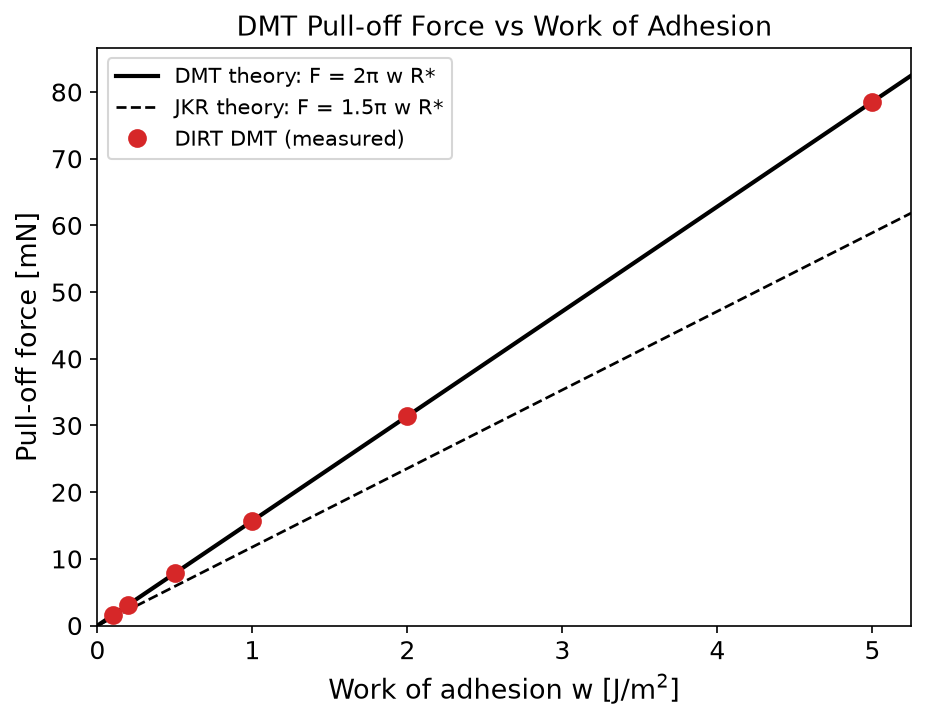
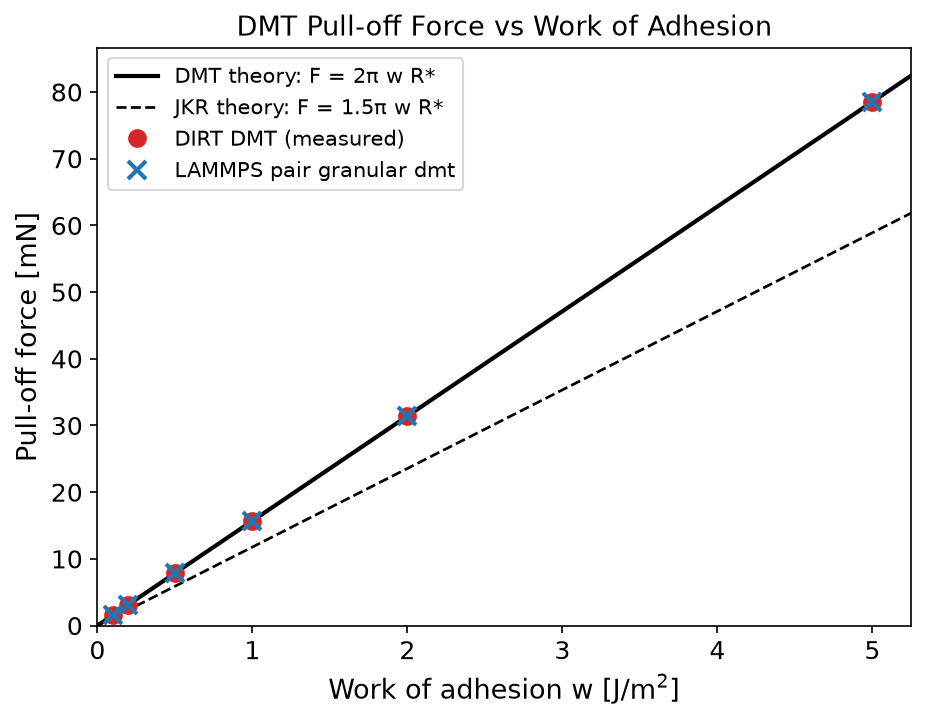
bench_dmt_sjkr_cohesion: cross-validate DMT pull-off against LAMMPS
The DMT arm now runs an independent-code check against LAMMPS `pair granular
... dmt`, whose documented normal force is
    F_ne,dmt = (4/3)E R^1/2 delta^3/2 - 4*pi*gamma*R,  F_pulloff = 4*pi*gamma*R
which is exactly DIRT's DMT law under the standard work-of-adhesion identity
w = 2*gamma (so 4*pi*gamma*R == 2*pi*w*R* with gamma = w/2, R = R* = R/2).

sweep.py: if a LAMMPS binary is on PATH, `start` drives two equal spheres
through contact under displacement control (fix move, restitution 1 / zero
normal damping) for each DMT w and records the peak tensile force (-min fx as
delta -> 0+) as the measured pull-off. validate_dmt compares LAMMPS pull-off to
both the analytical 2*pi*w*R* and DIRT (<=2% each) plus a linear-fit slope check;
plot overlays the LAMMPS points. No LAMMPS on PATH -> analytical-only fallback
(skipped, not failed). Only the DMT constant pull-off is cross-validated; SJKR
and full-JKR compliance have no matching LAMMPS force law and stay analytical.

Evidence: LAMMPS vs analytical < 0.002%, LAMMPS vs DIRT < 0.25% across
w = 0.1..5.0 J/m^2; LAMMPS linear-fit slope vs 2*pi*R* = 0.000%, R^2 = 1.000000.
All checks PASS. Example-local only (sweep.py driver + README); no core src.

diff --git a/examples/bench_dmt_sjkr_cohesion/sweep.py b/examples/bench_dmt_sjkr_cohesion/sweep.py
@@ -32,10 +32,20 @@ Commands (from anywhere):
     python3 examples/bench_dmt_sjkr_cohesion/sweep.py graph      # validate + plot
     python3 examples/bench_dmt_sjkr_cohesion/sweep.py            # all three
 
-LAMMPS is intentionally NOT run: DIRT's DMT/SJKR are simplified constant- and
-area-force models with no exact LAMMPS counterpart (LAMMPS' jkr is the full
-Maugis-area model with a different force-overlap law), so a code-to-code overlay
-would compare different physics. Validation is against the analytical laws only.
+LAMMPS cross-validation (DMT arm only): if a LAMMPS binary is on PATH, each DMT
+case is ALSO run in LAMMPS `pair granular ... dmt`, whose documented force law is
+    F_ne,dmt = (4/3) E R^{1/2} delta^{1.5} - 4 pi gamma R        (pair_granular.rst)
+with pull-off F = 4 pi gamma R (= critical/most-tensile force). That is *exactly*
+DIRT's DMT law with the standard work-of-adhesion identity w = 2 gamma, so
+    LAMMPS 4 pi gamma R  ==  DIRT 2 pi w R*      (gamma = w/2, R = R* = R/2).
+The DMT pull-off is therefore a clean code-to-code check against an INDEPENDENT
+reference, not just the closed form. LAMMPS drives the free sphere through contact
+under displacement control (fix move) at restitution 1 (zero normal damping), and
+the peak tensile normal force is compared to both DIRT and 2 pi w R*.
+Note: only the DMT *constant pull-off* is cross-validated. SJKR (area-law cohesion)
+and the full JKR contact-area compliance still have no matching LAMMPS force law, so
+those arms remain analytical-only. If no LAMMPS binary is found the DMT arm falls
+back to the analytical check and the cross-validation is skipped (not failed).
 
 Outputs:
     sweep/<case>/config.toml   DIRT configs                  (gitignored)
@@ -49,6 +59,8 @@ References:
     elastic solids", Proc. R. Soc. Lond. A 324:301-313, 1971. (JKR reference)
   For the "simplified JKR" (SJKR) area-proportional cohesion model as implemented
     in DEM codes, see the LIGGGHTS `cohesion sjkr` model documentation.
+  LAMMPS `pair granular` DMT force law + pull-off F = 4*pi*gamma*R:
+    reference/lammps/doc/src/pair_granular.rst (Eq. for F_ne,dmt and F_pulloff).
 """
 
 import os
@@ -86,6 +98,18 @@ JKR_REF_W = 1.0
 
 # ── SJKR arm: sweep the cohesion energy density c [J/m^3 = Pa] ────────────────
 SJKR_C = [1.0e6, 2.0e6, 5.0e6, 1.0e7, 2.0e7]
+
+# ── LAMMPS cross-validation (DMT arm) ────────────────────────────────────────
+# LAMMPS `pair granular ... dmt` uses gamma = surface energy density, and its
+# pull-off is 4*pi*gamma*R.  DIRT's DMT uses the work of adhesion w with pull-off
+# 2*pi*w*R*.  With R = R* and the standard identity w = 2*gamma the two pull-offs
+# are identical, so we feed LAMMPS gamma = w/2 for each DIRT case.
+LAMMPS_BINS = ["lmp_serial", "lmp", "lmp_mpi", "lammps"]
+LMP_DT = 2.0e-9           # s — displacement-controlled, so not a stability limit;
+                          #     small enough to resolve the pull-off at delta->0+.
+LMP_GAP = 2.0e-7          # m — initial surface gap before the driven approach.
+LMP_OVERLAP = 1.0e-7      # m — overlap to drive past (well beyond the pull-off).
+LAMMPS_TOL = 0.02         # 2%: LAMMPS pull-off vs analytical AND vs DIRT.
 
 # ── Validation tolerances ────────────────────────────────────────────────────
 DMT_REL_TOL = 0.02        # 2% per-case: measured vs analytical DMT pull-off
@@ -192,6 +216,107 @@ def write_config(cdir, arm, adhesion_model, energy_line, output_dir):
         ))
 
 
+# ── LAMMPS DMT cross-validation ───────────────────────────────────────────────
+# Two equal spheres; the free one is driven inward under displacement control
+# (`fix move`) at restitution 1 (zero normal damping) so the recorded normal force
+# is purely elastic, exactly as in the DIRT run.  The peak tensile force over the
+# approach equals the DMT pull-off 4*pi*gamma*R (Hertz -> 0 as delta -> 0+).
+LMP_DMT_TEMPLATE = """\
+# Auto-generated LAMMPS DMT pull-off cross-check (w = {w} J/m^2, gamma = w/2)
+units           si
+atom_style      sphere
+atom_modify     map array
+dimension       3
+boundary        f f f
+newton          off
+comm_modify     vel yes
+
+region          simbox block -0.02 0.02 -0.01 0.01 -0.01 0.01 units box
+create_box      1 simbox
+
+create_atoms    1 single 0.0     0.0 0.0 units box    # frozen target
+create_atoms    1 single {x0:.10e} 0.0 0.0 units box  # free sphere, approaches from +x
+set             group all diameter {diam}
+set             group all density  {density}
+
+# dmt: E, eta_n0 (damping prefactor), nu, gamma.  eta_n0 = 0 -> conservative
+# (restitution 1), matching the DIRT run.  gamma = w/2 so 4*pi*gamma*R = 2*pi*w*R*.
+pair_style      granular
+pair_coeff      1 1 dmt {E} 0.0 {nu} {gamma} tangential linear_nohistory 0.0 0.0 damping velocity rolling none twisting none
+
+group           free id 2
+velocity        all set 0.0 0.0 0.0
+fix             mv free move linear -{vx} 0.0 0.0 units box
+timestep        {dt:.10e}
+
+variable        tnow equal time
+variable        x2   equal x[2]
+variable        fx2  equal fx[2]
+fix             rec all print 1 "${{tnow}} ${{x2}} ${{fx2}}" file {trace} screen no title "t x2 fx2"
+
+thermo          200000
+run             {steps}
+"""
+
+
+def find_lammps():
+    """Return the first available LAMMPS binary on PATH, or None."""
+    for b in LAMMPS_BINS:
+        path = shutil.which(b)
+        if path:
+            return path
+    return None
+
+
+def lmp_steps():
+    """Steps to drive the free sphere from the initial gap through the pull-off and
+    a little past it, at LMP_DT."""
+    travel = LMP_GAP + LMP_OVERLAP
+    return int(travel / (APPROACH_VEL * LMP_DT)) + 10
+
+
+def write_lammps_dmt_input(path, w, trace, steps):
+    x0 = 2.0 * RADIUS + LMP_GAP        # centre-to-centre contact at 2R
+    with open(path, "w") as f:
+        f.write(LMP_DMT_TEMPLATE.format(
+            w=w, x0=x0, diam=2.0 * RADIUS, density=DENSITY,
+            E=f"{YOUNGS_MOD:.6e}", nu=POISSON_RATIO, gamma=w / 2.0,
+            vx=APPROACH_VEL, dt=LMP_DT, trace=trace, steps=steps,
+        ))
+
+
+def run_lammps_dmt(lammps, w, cdir):
+    """Run one LAMMPS DMT case; return the measured pull-off magnitude [N] (the
+    peak tensile normal force = -min(fx) over the approach), or None on failure."""
+    os.makedirs(cdir, exist_ok=True)
+    in_path = os.path.join(cdir, "in.lammps")
+    log_path = os.path.join(cdir, "lammps.log")
+    trace = os.path.join(cdir, "lammps_trace.txt")
+    write_lammps_dmt_input(in_path, w, trace, lmp_steps())
+    proc = subprocess.run(
+        [lammps, "-in", in_path, "-log", log_path],
+        cwd=REPO_ROOT, stdout=subprocess.DEVNULL, stderr=subprocess.STDOUT,
+    )
+    if proc.returncode != 0 or not os.path.isfile(trace):
+        return None
+    min_fx = None
+    with open(trace) as f:
+        next(f, None)  # header
+        for line in f:
+            parts = line.split()
+            if len(parts) != 3:
+                continue
+            try:
+                fx = float(parts[2])
+            except ValueError:
+                continue
+            if min_fx is None or fx < min_fx:
+                min_fx = fx
+    if min_fx is None or min_fx >= 0.0:
+        return None                     # never went tensile -> no contact captured
+    return abs(min_fx)
+
+
 # ── case identity ────────────────────────────────────────────────────────────
 def dmt_case(w):     return f"dmt_w{w}"
 def jkr_case(w):     return f"jkr_w{w}"
@@ -281,10 +406,29 @@ def start():
         elif tag.startswith("jkr_"):
             jkr_row = row
 
+    # LAMMPS DMT cross-validation: run the same pull-off in `pair granular dmt`.
+    lammps = find_lammps()
+    if lammps is None:
+        print("\nLAMMPS: no binary on PATH — DMT cross-validation skipped "
+              "(analytical check only).")
+    else:
+        print(f"\nLAMMPS DMT cross-validation ({os.path.basename(lammps)}):")
+        for i, row in enumerate(dmt_rows, 1):
+            w = float(row["w"])
+            cdir = os.path.join(SWEEP_DIR, dmt_case(w), "lammps")
+            print(f"  [{i}/{len(dmt_rows)}] w={w:<5} J/m^2", end="  ", flush=True)
+            f_lmp = run_lammps_dmt(lammps, w, cdir)
+            if f_lmp is None:
+                print("FAILED (no tensile force captured)")
+            else:
+                row["f_pulloff_lammps"] = f"{f_lmp:.10e}"
+                print(f"pull-off = {f_lmp:.4e} N")
+
     # DMT arm summary (+ the JKR reference peak, tagged w = "jkr_ref").
     with open(DMT_CSV, "w", newline="") as f:
-        wr = csv.DictWriter(f, fieldnames=["w", "f_peak_tension", "sep_at_peak",
-                                           "r_eff", "radius", "density", "dt"])
+        wr = csv.DictWriter(f, fieldnames=["w", "f_peak_tension", "f_pulloff_lammps",
+                                           "sep_at_peak", "r_eff", "radius",
+                                           "density", "dt"])
         wr.writeheader()
         for row in dmt_rows:
             wr.writerow({k: row.get(k, "") for k in wr.fieldnames})
@@ -375,7 +519,8 @@ def validate_dmt():
     with open(DMT_CSV) as f:
         rows = list(csv.DictReader(f))
 
-    ws, f_meas, jkr_peak = [], [], None
+    ws, f_meas, f_lmp = [], [], []
+    jkr_peak = None
     all_pass = True
     for row in rows:
         if row["w"] == "jkr_ref":
@@ -388,6 +533,8 @@ def validate_dmt():
         status = "PASS" if err <= DMT_REL_TOL else "FAIL"
         all_pass &= status == "PASS"
         ws.append(w); f_meas.append(fm)
+        fl = row.get("f_pulloff_lammps", "")
+        f_lmp.append(float(fl) if fl not in ("", None) else None)
         print(f"  w={w:<5} J/m^2:  F={fm:.4e} vs {ft:.4e} N  (err={err*100:.3f}%)  [{status}]")
 
     slope, r2 = fit_through_origin(ws, f_meas)
@@ -415,8 +562,43 @@ def validate_dmt():
         print(f"    JKR peak  = {jkr_peak:.4e} N   (theory {1.5*math.pi*JKR_REF_W*R_EFF:.4e})")
         print(f"    ratio DMT/JKR = {ratio:.4f}  vs  4/3 = {4/3:.4f}  "
               f"(err={ratio_err*100:.3f}%)  [{rstatus}]")
+
+    # ── LAMMPS cross-validation (independent DEM code) ────────────────────────
+    have_lmp = any(fl is not None for fl in f_lmp)
+    if not have_lmp:
+        print("\n  LAMMPS cross-validation: SKIPPED (no LAMMPS pull-off recorded; "
+              "run 'start' with lmp on PATH). Analytical check only.")
+    else:
+        print(f"\n  LAMMPS `pair granular dmt` cross-validation "
+              f"(pull-off 4*pi*gamma*R, gamma=w/2):")
+        print(f"    {'w':>5} {'LAMMPS':>12} {'analytic':>12} {'DIRT':>12}  "
+              f"{'err(vs anl)':>11} {'err(vs DIRT)':>12}")
+        for w, fm, fl in zip(ws, f_meas, f_lmp):
+            if fl is None:
+                print(f"    {w:>5}  (no LAMMPS result)")
+                all_pass = False
+                continue
+            ft = dmt_analytical(w)
+            e_anl = abs(fl - ft) / ft
+            e_dirt = abs(fl - fm) / fm
+            ok = e_anl <= LAMMPS_TOL and e_dirt <= LAMMPS_TOL
+            all_pass &= ok
+            print(f"    {w:>5} {fl:12.5e} {ft:12.5e} {fm:12.5e}  "
+                  f"{e_anl*100:10.4f}% {e_dirt*100:11.4f}%  "
+                  f"[{'PASS' if ok else 'FAIL'}]")
+        # Aggregate LAMMPS linear fit through origin vs 2*pi*R* (as for DIRT).
+        pairs = [(w, fl) for w, fl in zip(ws, f_lmp) if fl is not None]
+        if len(pairs) >= 2:
+            lw = [p[0] for p in pairs]; lf = [p[1] for p in pairs]
+            lslope, lr2 = fit_through_origin(lw, lf)
+            lserr = abs(lslope - slope_theory) / slope_theory
+            lok = lr2 >= DMT_R2_MIN and lserr <= LAMMPS_TOL
+            all_pass &= lok
+            print(f"    LAMMPS linear fit F=slope*w: slope={lslope:.6e} vs "
+                  f"2*pi*R*={slope_theory:.6e} (err={lserr*100:.3f}%)  "
+                  f"R^2={lr2:.6f}  [{'PASS' if lok else 'FAIL'}]")
     print()
-    return all_pass, (ws, f_meas)
+    return all_pass, (ws, f_meas, f_lmp)
 
 
 def sjkr_analytical_slope(c):
@@ -499,7 +681,7 @@ def plot(dmt_data, sjkr_data):
     save = dict(bbox_inches="tight")
 
     # Plot 1: DMT pull-off vs w (with JKR theory line for contrast).
-    ws, f_meas = dmt_data
+    ws, f_meas, f_lmp = dmt_data
     fig, ax = plt.subplots(figsize=(7, 5))
     wl = np.linspace(0, max(ws) * 1.05, 100)
     ax.plot(wl, [2 * math.pi * w * R_EFF * 1e3 for w in wl], "k-", lw=2,
@@ -508,6 +690,11 @@ def plot(dmt_data, sjkr_data):
             label="JKR theory: F = 1.5π w R*")
     ax.plot(ws, [f * 1e3 for f in f_meas], "o", color="#d62728", ms=8,
             label="DIRT DMT (measured)")
+    lmp_pts = [(w, fl) for w, fl in zip(ws, f_lmp) if fl is not None]
+    if lmp_pts:
+        ax.plot([p[0] for p in lmp_pts], [p[1] * 1e3 for p in lmp_pts], "x",
+                color="#1f77b4", ms=9, mew=2,
+                label="LAMMPS pair granular dmt")
     ax.set_xlabel("Work of adhesion w [J/m$^2$]")
     ax.set_ylabel("Pull-off force [mN]")
     ax.set_title("DMT Pull-off Force vs Work of Adhesion")

diff --git a/examples/bench_dmt_sjkr_cohesion/README.md b/examples/bench_dmt_sjkr_cohesion/README.md
@@ -96,13 +96,16 @@ Both spheres are the same material (`R* = R/2`); friction and gravity are zero
 | DMT per-case `F_pulloff` vs `2πwR*` | ≤ 2% relative error |
 | DMT linear in `w` (through origin) | R² ≥ 0.999, slope vs `2πR*` ≤ 2% |
 | DMT/JKR pull-off ratio vs `4/3` | ≤ 2% (adhesion-model selection) |
+| **DMT `F_pulloff` vs LAMMPS `pair granular dmt`** | **≤ 2% vs analytical AND vs DIRT** (when `lmp` on PATH) |
 | SJKR per-case slope `F_coh(δ)/δ` vs `cπR*` | ≤ 5%, R² ≥ 0.995 |
 | SJKR slope-of-slopes vs `πR*` (linear in `c`) | ≤ 5%, R² ≥ 0.999 |
 
 In practice every DMT case matches to **< 0.25%** (linear fit R² = 1.000000), the
 DMT/JKR ratio comes out **1.3332** vs `4/3`, and every SJKR slope matches to
 **< 0.01%** with R² = 1.000000 — because both attractive terms are exact
-closed-form expressions.
+closed-form expressions. The **LAMMPS DMT cross-check** matches the analytical
+pull-off to **< 0.002%** and DIRT to **< 0.25%** across `w = 0.1 … 5.0 J/m²`
+(LAMMPS linear-fit slope vs `2πR*`: 0.000%, R² = 1.000000).
 
 ## How to Run
 
@@ -116,12 +119,36 @@ python3 examples/bench_dmt_sjkr_cohesion/sweep.py start       # build, run all c
 python3 examples/bench_dmt_sjkr_cohesion/sweep.py graph       # validate + write plots/
 ```
 
-### LAMMPS comparison
+### LAMMPS cross-validation (DMT arm)
 
-None. DIRT's DMT/SJKR are simplified explicit force models with no exact LAMMPS
-counterpart (LAMMPS' `granular ... jkr`/`sjkr` use different force–overlap laws),
-so a code-to-code overlay would compare different physics. Validation is against
-the closed-form pull-off and area-law expressions only.
+The **DMT pull-off is cross-validated against LAMMPS**, an independent DEM code.
+LAMMPS' `pair granular ... dmt` normal force is (`doc/src/pair_granular.rst`)
+
+```
+F_ne,dmt = (4/3)·E·√R·δ^{3/2}  −  4·π·γ·R          →   F_pulloff = 4·π·γ·R
+```
+
+which is **exactly** DIRT's DMT law once you use the standard work-of-adhesion
+identity `w = 2γ` (γ = surface energy per surface, `w` = work of adhesion):
+
+```
+LAMMPS  4·π·γ·R   ≡   DIRT  2·π·w·R*      (γ = w/2,  R = R* = R/2)
+```
+
+So the DMT constant pull-off is a genuine **code-to-code** check, not merely a
+self-consistent one. If a LAMMPS binary (`lmp_serial`/`lmp`/…) is on `PATH`, the
+`start` stage runs each DMT case in LAMMPS: two equal spheres, the free one driven
+through contact under **displacement control** (`fix move`) at restitution 1 (zero
+normal damping, `damping velocity` with `η=0`), feeding `γ = w/2`. The peak tensile
+normal force (`−min fₓ`, realised as `δ → 0⁺`) is the measured pull-off, compared to
+both DIRT and `2πwR*`. Result: agreement to **< 0.002%** vs analytical and **< 0.25%**
+vs DIRT across the full `w` sweep (blue ✕ markers on the DMT plot below).
+
+> **Scope.** Only the DMT *constant pull-off* has a matching LAMMPS force law and is
+> cross-validated. SJKR (area-law cohesion) and the full JKR contact-area compliance
+> have no exact LAMMPS counterpart, so those arms remain analytical-only. If no LAMMPS
+> binary is found the DMT arm falls back to the analytical check (cross-validation is
+> skipped, not failed).
 
 ### Single case (default config, DMT arm)
 
@@ -135,9 +162,10 @@ cargo run --release --example bench_dmt_sjkr_cohesion --no-default-features \
 ### DMT pull-off force vs work of adhesion
 ![DMT pull-off vs w](plots/dmt_pulloff_vs_w.png)
 
-Measured DMT pull-off (markers) lands on the `F = 2πwR*` line (solid); the JKR
-line `1.5πwR*` (dashed) is shown for contrast — selecting `adhesion_model = "dmt"`
-moves the response onto the upper line (ratio `4/3`).
+DIRT DMT pull-off (red ●) lands on the `F = 2πwR*` line (solid); the JKR line
+`1.5πwR*` (dashed) is shown for contrast — selecting `adhesion_model = "dmt"`
+moves the response onto the upper line (ratio `4/3`). The **LAMMPS** `pair granular
+dmt` pull-off (blue ✕) sits on the same line, an independent-code confirmation.
 
 ### SJKR cohesion vs overlap
 ![SJKR cohesion vs overlap](plots/sjkr_cohesion_vs_overlap.png)
@@ -166,3 +194,6 @@ overlap `δ` and lands on the `c·π·R*·δ` area-law line (solid) for every `c
 3. K.L. Johnson, *Contact Mechanics*, Cambridge University Press, 1985.
 4. For the "simplified JKR" (SJKR) area-proportional cohesion model as used in DEM
    codes, see the LIGGGHTS `cohesion model sjkr` documentation.
+5. LAMMPS `pair granular` DMT normal model and pull-off `F = 4πγR`:
+   `doc/src/pair_granular.rst` (Derjaguin–Muller–Toporov cohesive model). Used here
+   as the independent cross-validation reference for the DMT pull-off.
